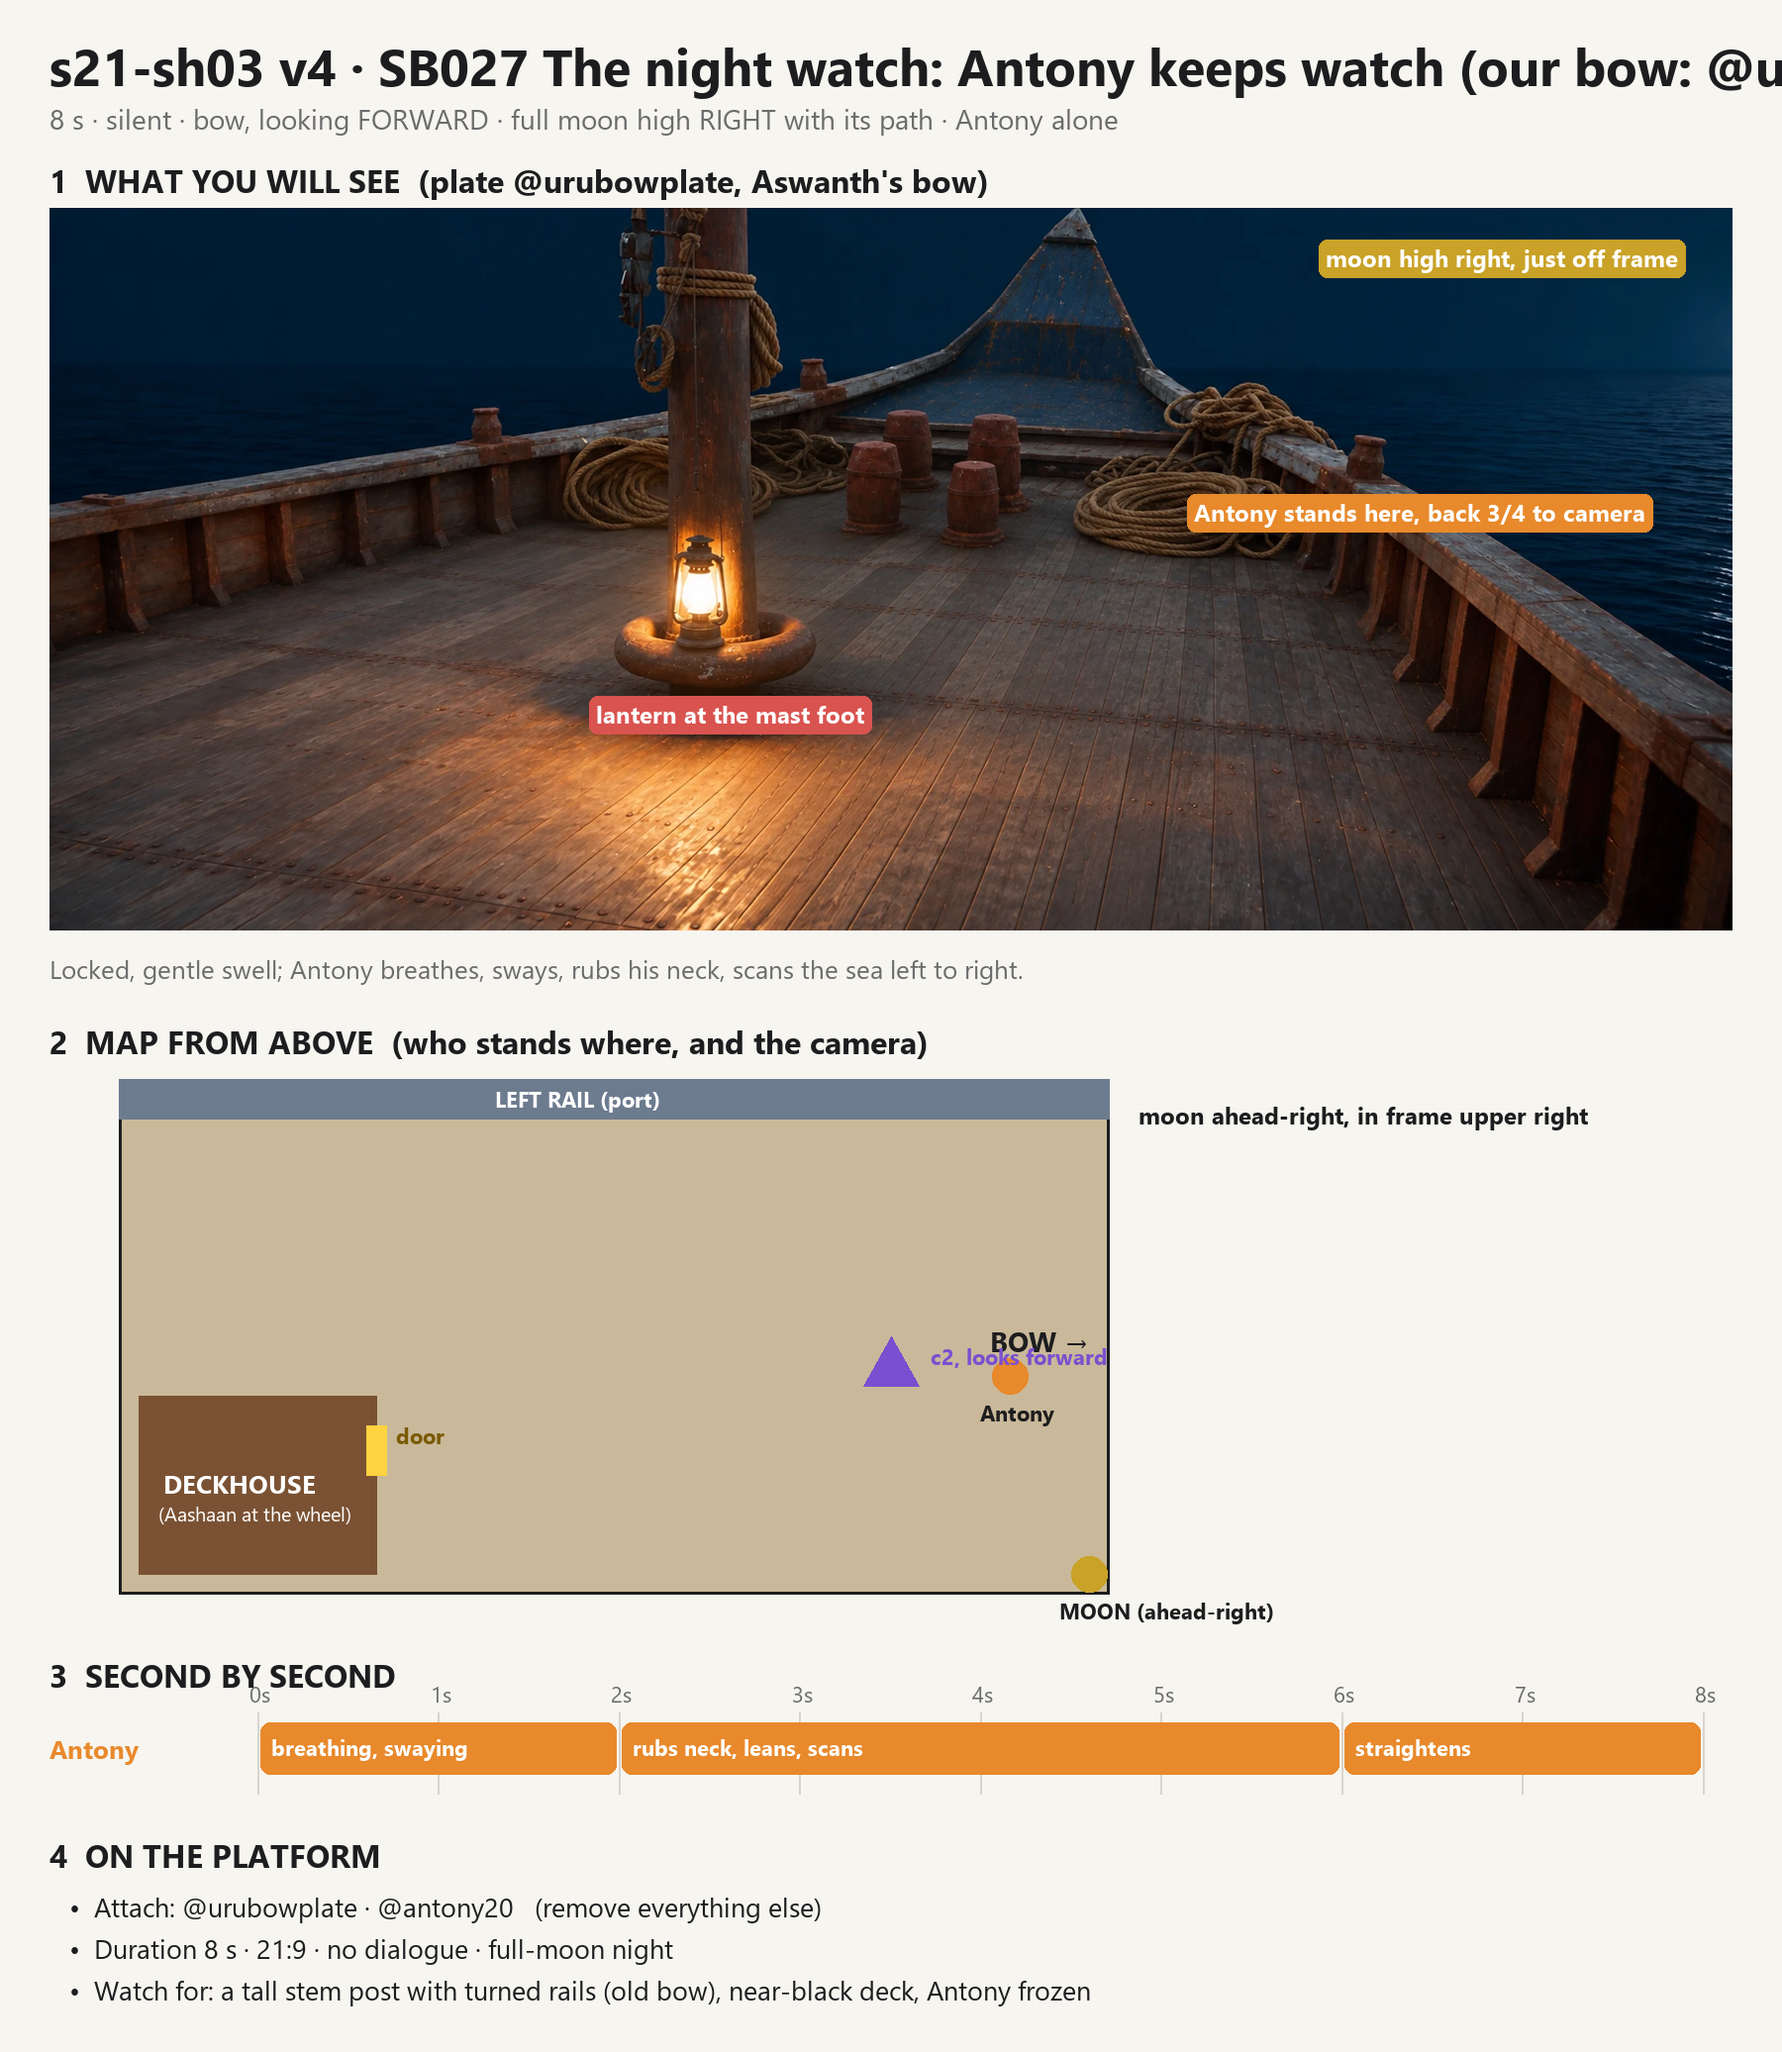
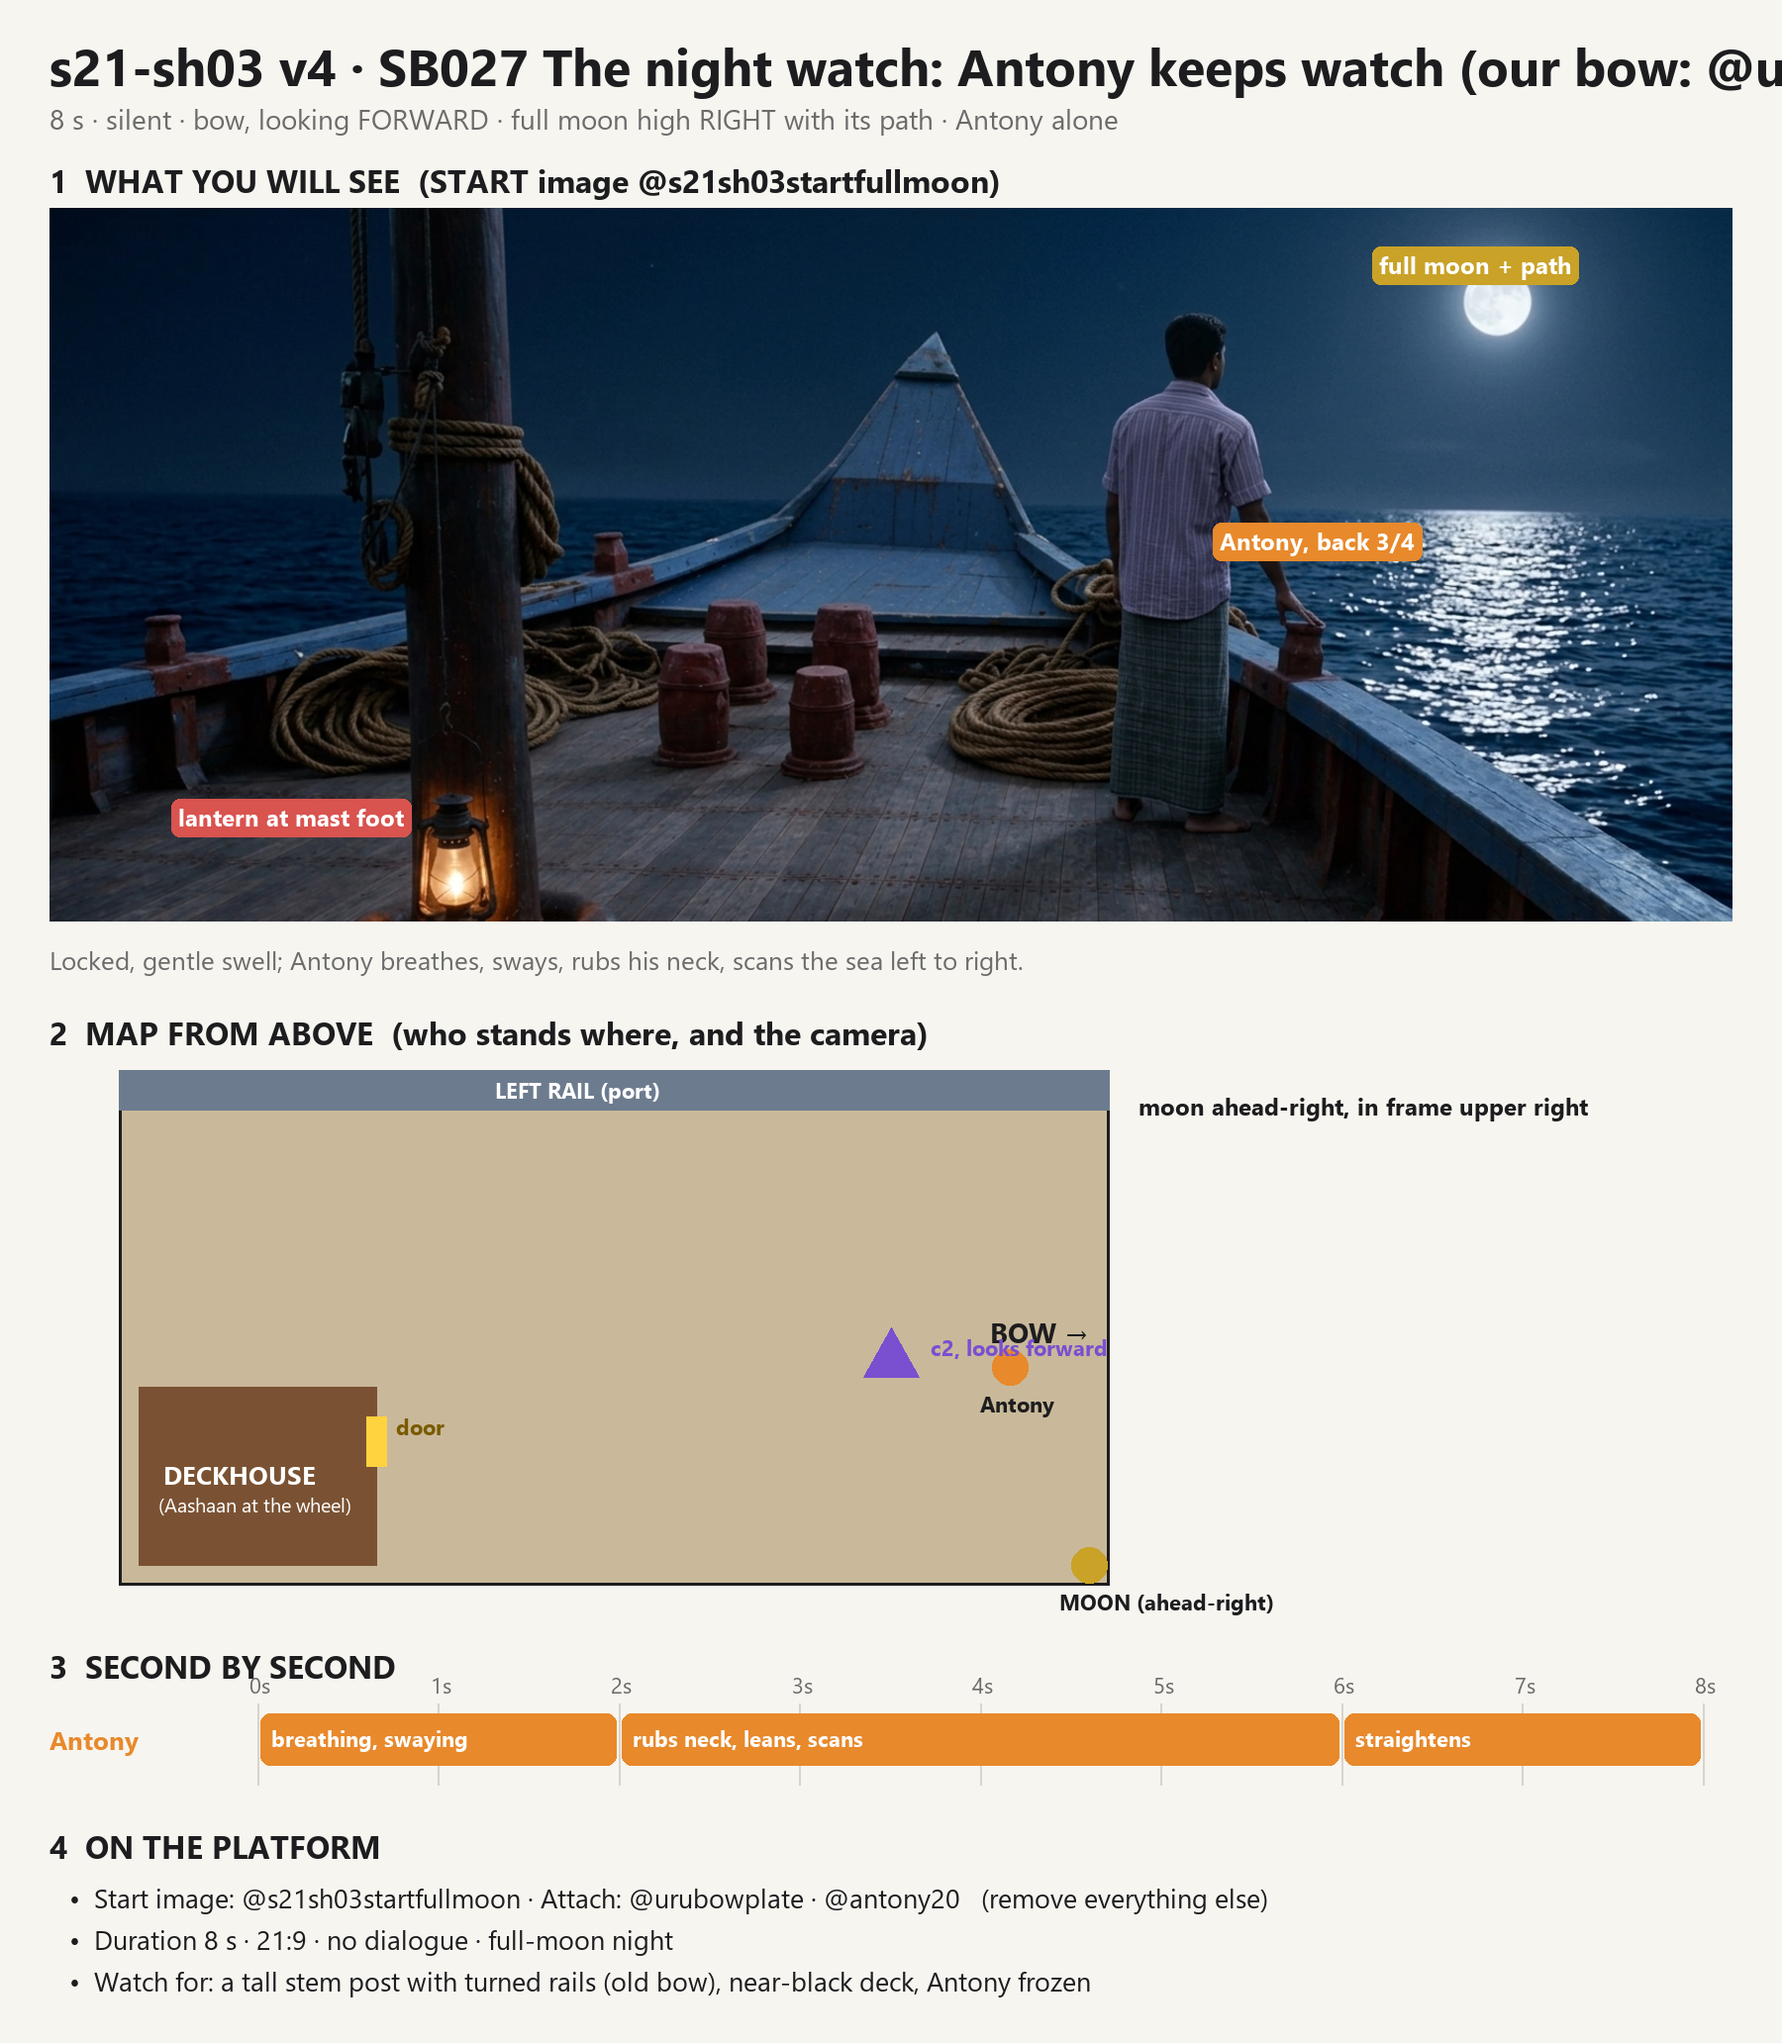
Ranjith: asset: @s21sh03startfullmoon (21:9, full moon, our bow); s21-sh03 starts from it

diff --git a/scenes/showreel/s21-sh03.md b/scenes/showreel/s21-sh03.md
@@ -3,11 +3,12 @@ Status: **ready, proposal** (v4: our bow is Aswanth's @urubowplate, L143; v3 kep
 Storyboard: SB027 · source scene 21–22 · emotion "Quiet" (silent shot, no tag) · storyboard sheet `storyboards/sb027-storyboard.png`
 Created by: Ranjith, 2026-11-07
 Camera position: urudeck-c2-bow-night (foredeck, looking forward over the bow to the open sea)
-References: @urubowplate (full), @antony20 (full)
+References: @s21sh03startfullmoon (start image) · @urubowplate (full) · @antony20 (full)
 Reference sweep (left out, and why): @antonybag: not on him on night watch aboard (stowed, not written, L27); say if you want it on. @uru: the plate is its bow (L51).
 Continuity: after SB022 (the uru left Cochin) and the voyage scenes SB023–SB026 (Ananthu, Aswanth). Next: SB028, Antony at the bow notices a distant light (same bow view).
 
 ## History
+- v4 start frame (2026-11-12): Ranjith chose version A (21:9) of his recreated bow frame: @s21sh03startfullmoon.
 - MEMORY block added (2026-11-12, Ranjith): the night's fixed facts from `continuity/memory/night-rescue-sb027-sb032.md` plus this shot's NOW line; character lines shortened to "as in MEMORY".
 - v4 (2026-11-11): Ranjith: the bow switched to Aswanth's @urubowplate (the bow every uru deck shot uses, L116, L131, L143); the full moon stays high on the right, just beyond the frame edge. Only the plate and the bow words changed.
 - v3 (2026-11-11): Ranjith: redone for the full-moon night in the look of his reference video (`continuity/night-fullmoon-look/`): full-moon plates, moon placed by the night sheet (L142), blue readable moonlight with one warm lantern. Only the light, the moon and the plate IDs changed (L114).
@@ -27,6 +28,7 @@ Fire: one burning vallam ahead-LEFT, about 500 m away until a shot shows it clos
 NOW: Antony alone at the right-hand bulwark of the bow, tired but awake, at ease, a little lost in thought; the crew asleep, Aashaan at the wheel behind; no fire yet.
 
 ACTIVE REFERENCES
+@s21sh03startfullmoon (start image, 0.0s): the first frame exactly as this image: Antony at the right-hand bulwark of our bow, back three-quarters to the view, left hand on the rail; the mast and its lantern at the left; the full moon high on the right with its silver path. 100% matches the reference.
 @urubowplate (0.0s–8.0s, full): our bow exactly as on this plate, as in MEMORY; the mast with its lantern at the left; the full moon high on the right just beyond the frame edge, its silver path on the water at the right. 100% matches the reference.
 @antony20 (0.0s–8.0s, full): Antony, as in MEMORY. 100% matches the reference.
 
@@ -37,7 +39,7 @@ THE BOW (0.0s–8.0s)
 Seen from the foredeck a few metres aft of the bow, at standing height, looking forward, exactly as in the reference. Antony stands at the right-hand bulwark just aft of the pointed stem, his back three-quarters to the view, his left hand resting on the rail, looking out over the sea ahead; the moon's silver path on the water beyond him at the right.
 
 FIRST FRAME
-Antony at the right-hand bulwark, back three-quarters to the view, left hand on the rail, looking out at the moonlit sea; the pointed blue stem rising ahead of him.
+The start image, exactly.
 
 FORMAT MODE
 One continuous shot; the camera does not cut on its own. The video runs the full 8 seconds.

diff --git a/INDEX.md b/INDEX.md
@@ -118,6 +118,7 @@ Status: `approved` · `waiting for approval` · `retired`
 | `@s21sh02start` | START frame of s21-sh02 (v2, Kling O1, natural low light): inside the deckhouse at night, Aashaan from directly behind at the wheel, both hands on the spokes, towel on his left shoulder, one dim lantern, Antony small at the bow through the window | Start image of s21-sh02 (and any helm shot from behind) | `scenes/showreel/approved/s21-sh02-start.png` | Ranjith | 2026-11-07 | retired (half moon; replaced by the full-moon version, 2026-11-11) |
 | `@s21sh02startfullmoon` | START frame of s21-sh02 on the full-moon night: Aashaan from directly behind at the wheel, both hands on the spokes, towel on his left shoulder, warm lantern; full moon high RIGHT through the windows, Antony small at the bow | Start image of s21-sh02 (replaces @s21sh02start) | `scenes/showreel/approved/s21-sh02-start-fullmoon.png` | Ranjith | 2026-11-11 | retired (old bow through the windows; replaced by the 2 version, L143) |
 | `@s21sh02startfullmoon2` | START frame of s21-sh02 on the full-moon night: Aashaan from directly behind at the wheel, both hands on the spokes, towel on his left shoulder, warm lantern; through the windows our bow as on @urubowplate, Antony small at the right-hand bulwark near the stem, full moon high RIGHT | Start image of s21-sh02 | `scenes/showreel/approved/s21-sh02-start-fullmoon2.png` | Ranjith | 2026-11-11 | approved |
+| `@s21sh03startfullmoon` | START frame of s21-sh03 (21:9): Antony from behind three-quarters at the right-hand bulwark of our bow (as on @urubowplate), left hand on the rail; full moon high RIGHT with its silver path; mast with its lantern at the left | Start image of s21-sh03 (and the bow view of SB028) | `scenes/showreel/approved/s21-sh03-start-fullmoon.png` | Ranjith | 2026-11-12 | approved |
 | `@steelplate` | Raghavan's steel plate and spoon, one prop: round worn stainless-steel thali about 30 cm, low rim, two small dents; plain steel table spoon about 18 cm (plate from above and on edge, spoon from above and side) | Every shot with the plate or spoon in frame (song on deck), with @raghavan: plate in his LEFT hand, spoon in his RIGHT; not for the fish-serving plate | `props/steelplate/prop.webp` | Aswanth | 2026-11-07 | approved |
 
 ## Scale sheets
